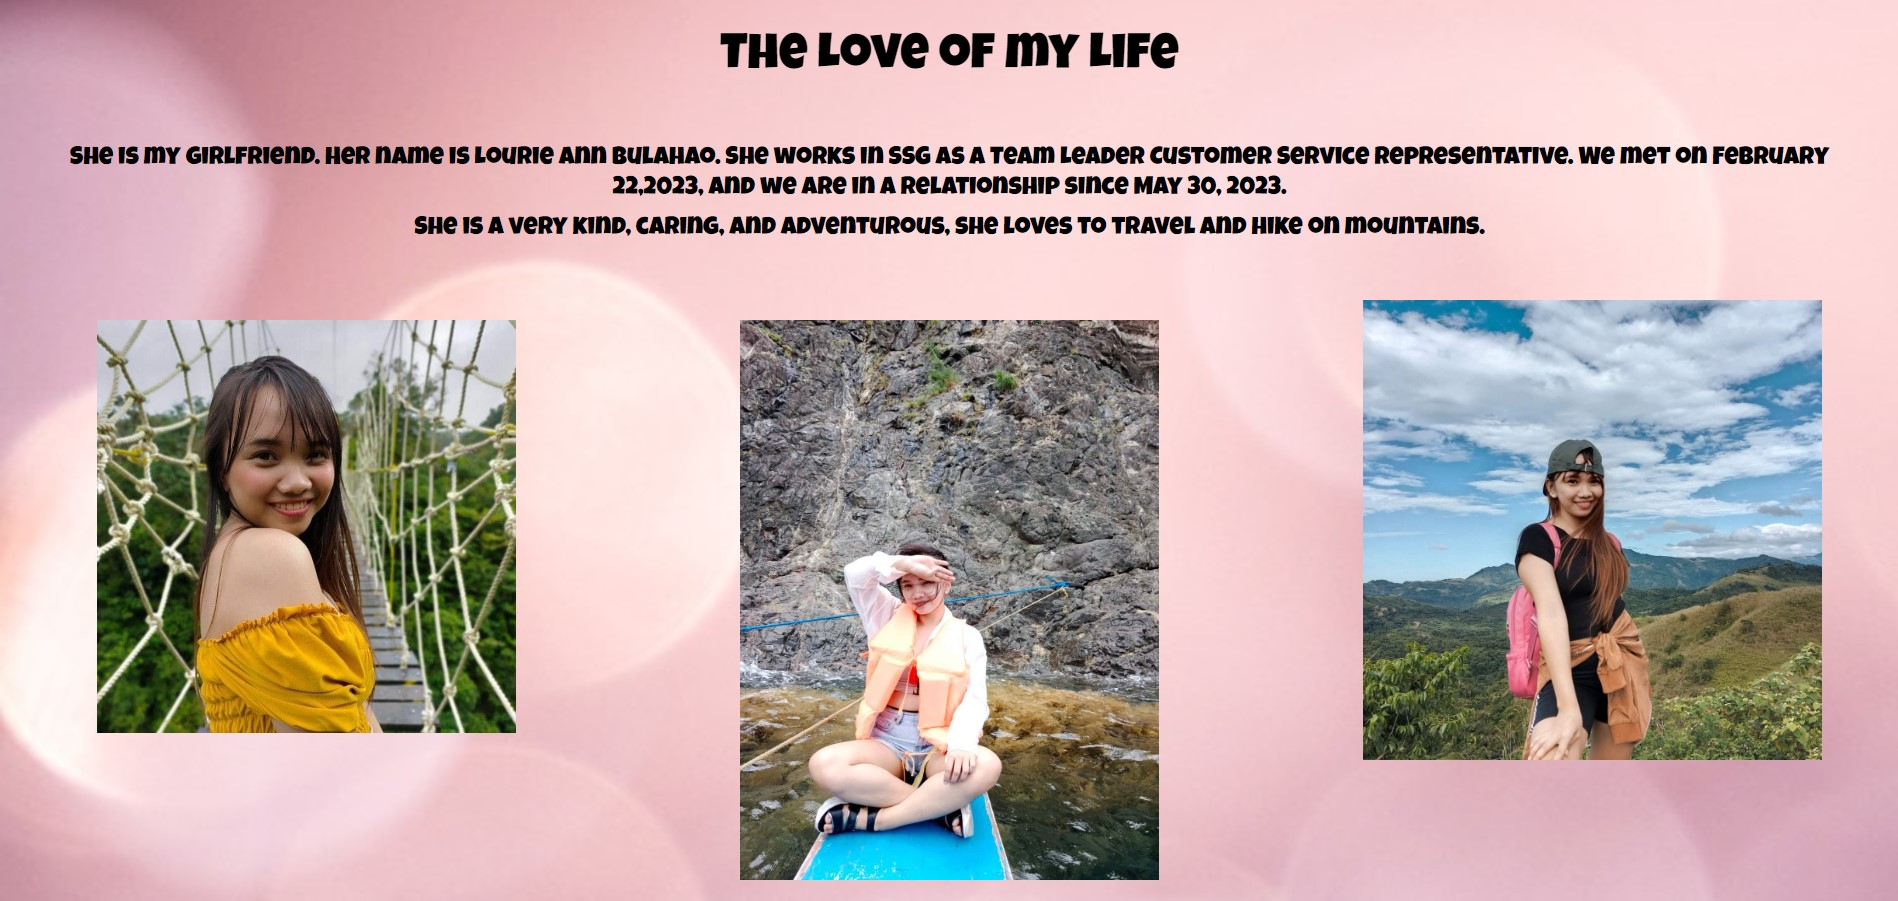
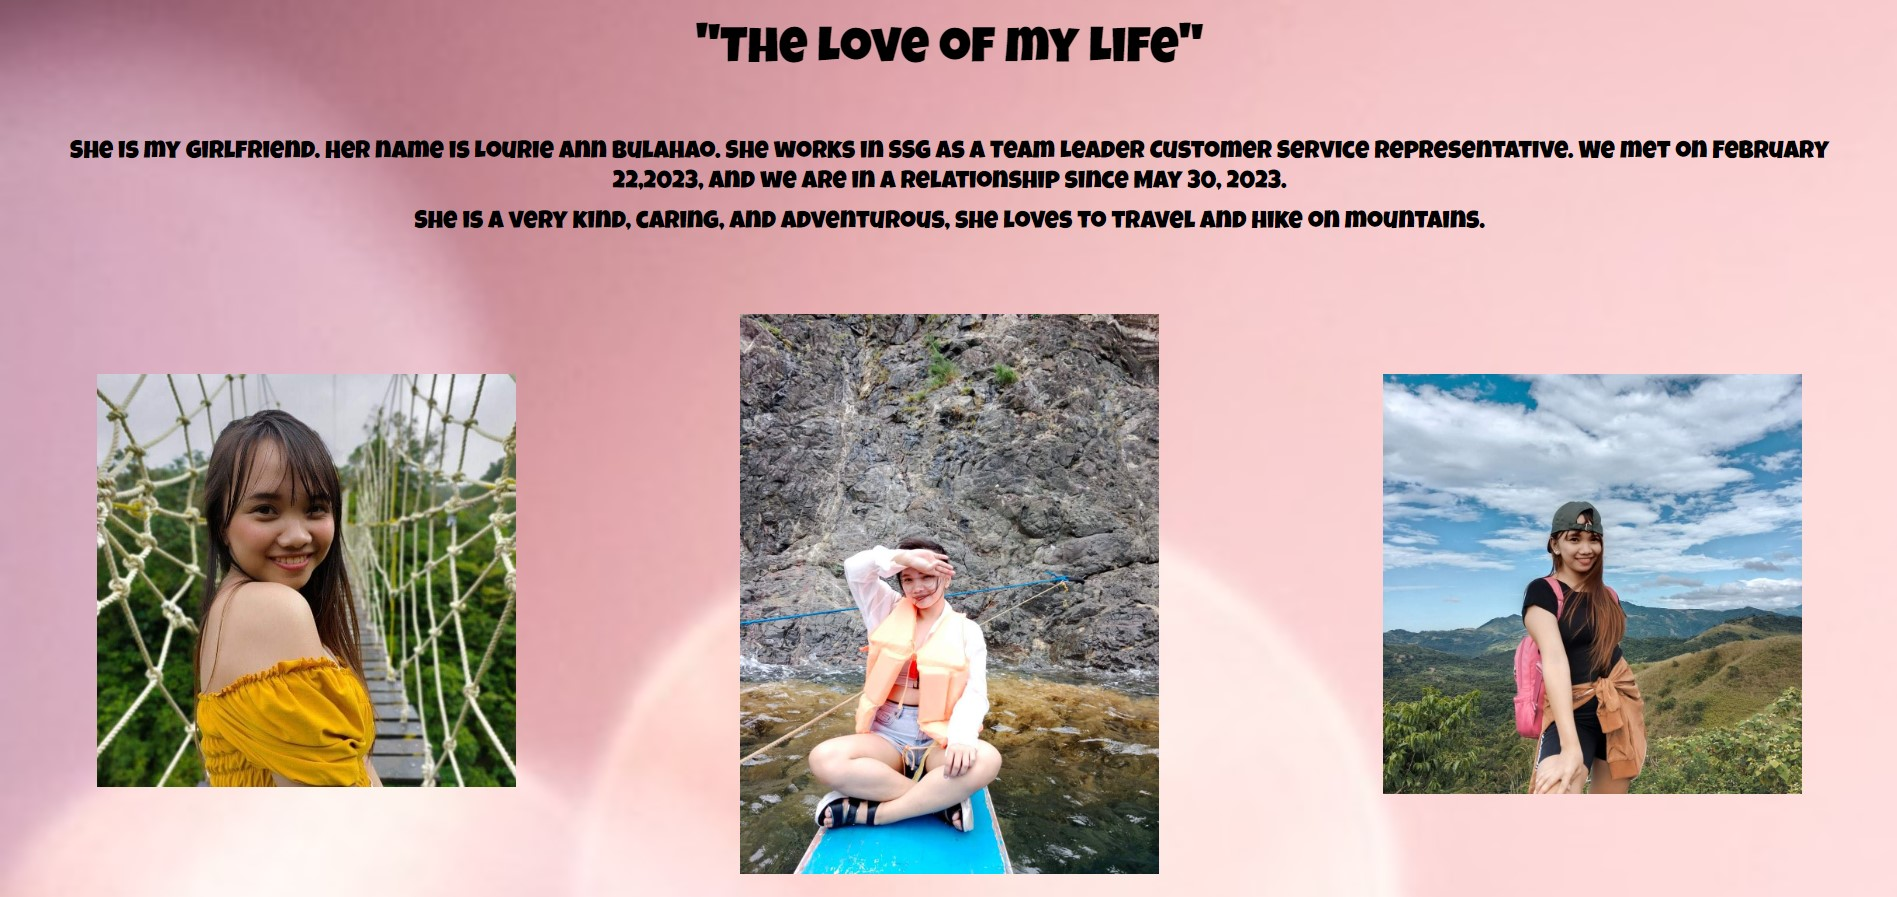
added photo of finished Capstone 2 and Project1

diff --git a/projects.html b/projects.html
@@ -66,9 +66,9 @@
 		<div class="col-md-4">
 			<div class="card border border-5 bg-black project-card">
 				<h5 class="card-title text-white">Capstone 2: Ecommerce API</h5>
-				<img src="./images/capstone2temp.jpg" class="card-img-top p-2" alt="...">
+				<img src="./images/projectphotos/ECommerceAPI.jpg" class="card-img-top p-2" alt="...">
 				<div class="card-body">
-				<p class="card-text text-white">Created an API using Node.js, Express.js , Tested Using Postman Deployed to Heroku</p>
+				<p class="card-text text-white">Created an API using Node.js, Express.js , Tested Using Postman and Deployed to AWS.</p>
 				<p class="card-text text-white">-Used as server in my Capstone 3</p>
 				<!-- <a href="#" class="btn btn-dark">View Project</a> -->
 				</div>
@@ -96,7 +96,7 @@
  		<h2>OTHER PROJECTS:</h2>
  		<div class="col-md-4">
 			<div class="card border border-5 bg-black project-card">
-				<h5 class="card-title text-white">Project 1: My Girlfriend</h5>
+				<h5 class="card-title text-white">Project 1: The Love of my Life</h5>
 				<img src="./images/projectphotos/JQuery project1.jpg" class="card-img-top p-2" alt="...">
 				<div class="card-body">
 				<p class="card-text text-white">Created a Static Website with animations using HTML5, CSS3, Bootstrap5 , and JQuery Framework featuring my girlfriend and how I met her.</p>
